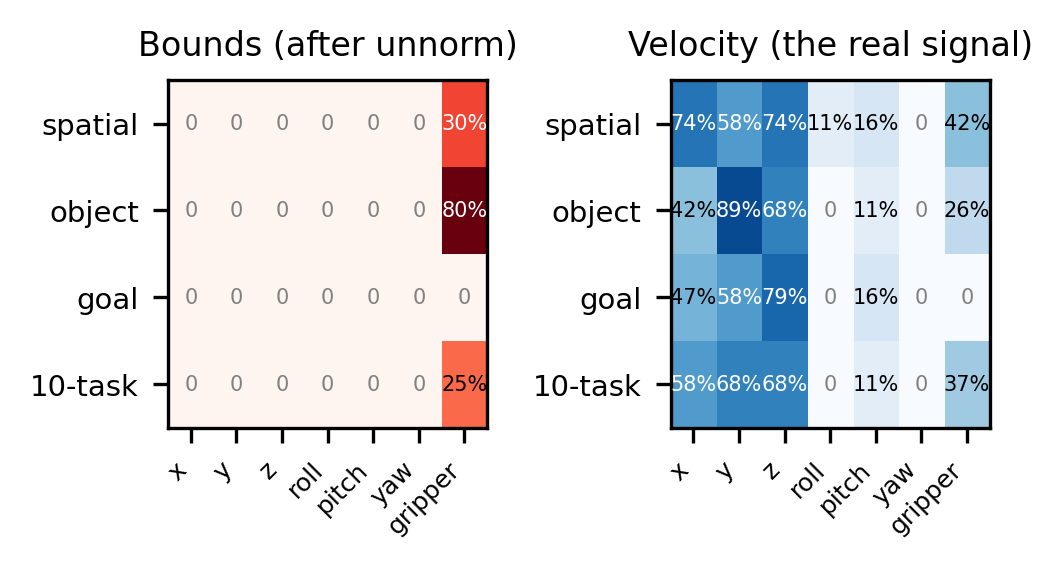
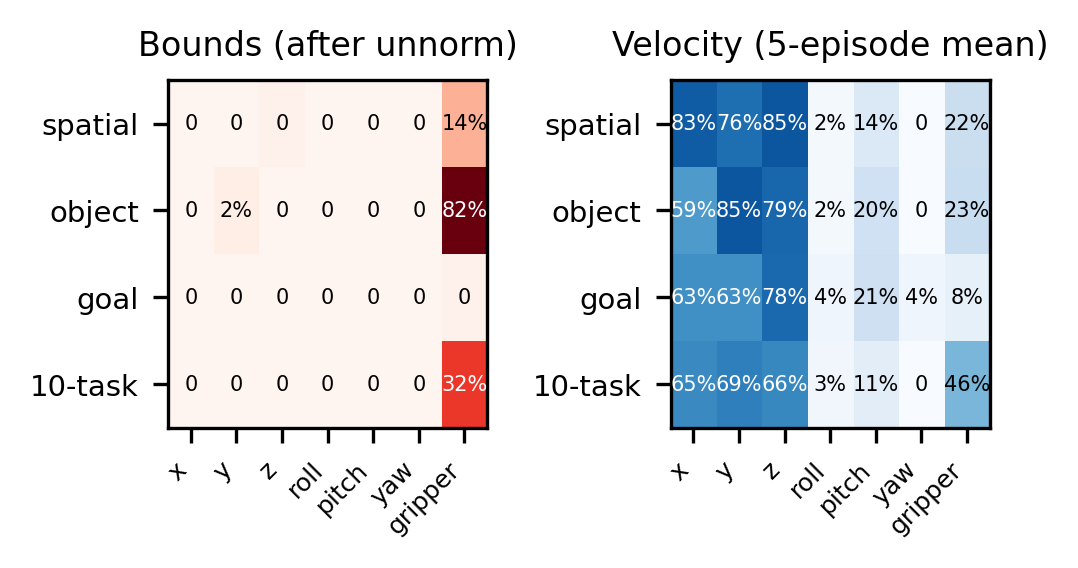
Fix Fig 4 to use v2 data (5-episode means) + fix Fig 5 caption

diff --git a/paper/icra_ws_2026/main.tex b/paper/icra_ws_2026/main.tex
@@ -231,13 +231,13 @@ We ran SmolVLA on all 130 tasks (40 standard + 90 diverse).
 Bounds violation rates vary from 4\% to 37\%; velocity violations dominate at 72.4\%.
 Rotational axes are most violated (pitch 30.6\%, roll 26.6\%) while lateral motions are least affected (yaw 9.3\%, y 9.7\%).
 After correct unnormalization, bounds violations drop to 0\%, but velocity fingerprints persist by suite:
-\emph{spatial} (x=74\%, z=74\%), \emph{object} (y=89\%), \emph{goal} (z=79\%), \emph{10-task} (balanced 58--68\%).
+\emph{spatial} (x=83\%, z=85\%), \emph{object} (y=85\%), \emph{goal} (z=78\%), \emph{10-task} (gripper=46\%).
 Cosine distance between suite fingerprints is 0.054, confirming task-dependent patterns (Fig.~\ref{fig:130tasks}).
 
 \begin{figure}[t]
     \centering
     \includegraphics[width=\columnwidth]{figures/fig_130tasks.pdf}
-    \caption{Bounds violation rates across 90 LIBERO-90 tasks, sorted. The 4\%--37\% spread demonstrates that violation fingerprints vary meaningfully by task: simple drawer tasks produce few violations while complex mug placement tasks produce many.}
+    \caption{Bounds violation rates across 90 LIBERO-90 tasks (sorted). Violation rates range from 4\% (drawer manipulation) to 37\% (mug placement), demonstrating task-dependent monitoring signals.}
     \label{fig:130tasks}
 \end{figure}
 
